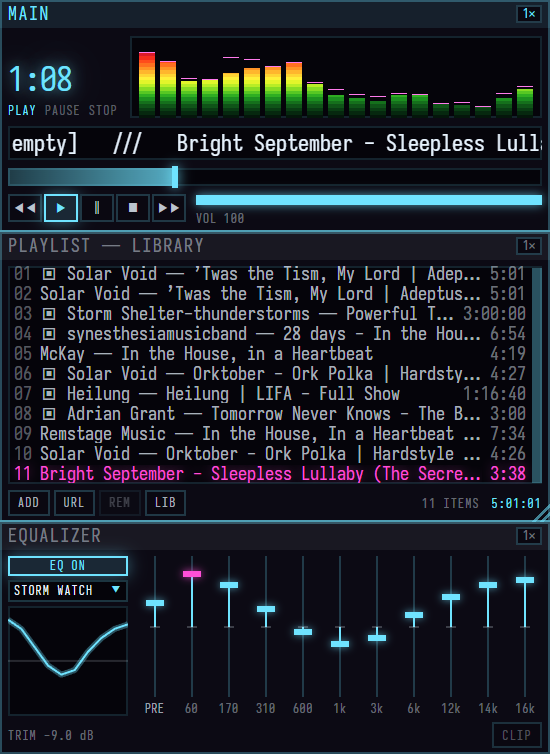
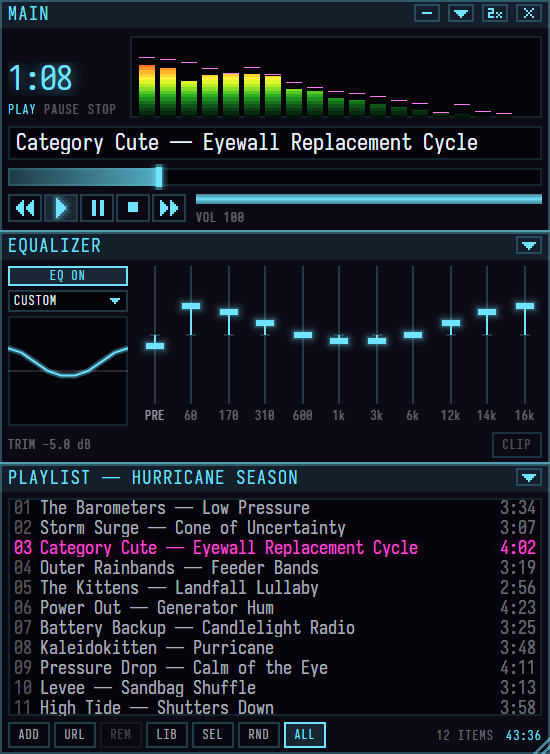
site: v0.5 on the download page, with Purricane and skins (docs)
The page still described v0.4: skins "at v0.5", one video at a time.
It now has a SKINS section (import a .wsz, make one from a picture, paint
your own) and a PURRICANE section with the three windows in the theme
and three kaleidoscope badges: six segments, eight, and calm. The EQ and
playlist blurbs, the first step, the FAQ and the dark-only line catch up.
The Eyewall windows and windowshade shots are retaken on the current
chrome, with the same invented playlist the Purricane shot plays.

control-api.md and windows.md stop placing palette_changed and REGION.TXT
at v0.5, which shipped without both.

diff --git a/site/index.html b/site/index.html
@@ -114,6 +114,14 @@
   .shade p { color: color-mix(in srgb, var(--text) 85%, transparent); margin-top: 6px; }
   .shade img.capy { width: 100%; max-width: 300px; justify-self: center; }
 
+  .purr { display: grid; grid-template-columns: minmax(0, auto) minmax(240px, 1fr); gap: 40px; align-items: start; }
+  .purr .shots { overflow-x: auto; max-width: 100%; }
+  .purr .shots img { width: 550px; max-width: none; image-rendering: pixelated; filter: drop-shadow(0 0 30px color-mix(in srgb, var(--alert) 22%, transparent)); }
+  .purr .blurb .label { color: var(--alert); }
+  .trio { display: flex; flex-direction: column; gap: 10px; }
+  .trio img { width: 100%; max-width: 740px; }
+  .trio .caps { display: grid; grid-template-columns: repeat(3, 1fr); max-width: 740px; font: 400 11px/1.5 var(--mono); letter-spacing: 1.6px; color: var(--dim); text-align: center; }
+
   .tinker { display: grid; grid-template-columns: minmax(0, 1fr) minmax(260px, 0.9fr); gap: 32px; align-items: center; padding-top: 24px; }
   .tinker img { width: 100%; max-width: 520px; justify-self: center; }
 
@@ -133,7 +141,7 @@
   footer img { width: 220px; }
 
   @media (max-width: 760px) {
-    header.hero, .two, .windows, .shade, .tinker, .faq, footer.wrap { grid-template-columns: 1fr; }
+    header.hero, .two, .windows, .purr, .shade, .tinker, .faq, footer.wrap { grid-template-columns: 1fr; }
     .hero img, .tinker img, footer img { justify-self: start; }
     .wrap { padding: 40px 20px; }
     nav { padding: 18px 20px; }
@@ -150,6 +158,7 @@
   <div class="links">
     <a href="#first-minute">FIRST MINUTE</a>
     <a href="#windows">THE WINDOWS</a>
+    <a href="#purricane">PURRICANE</a>
     <a href="#faq">FAQ</a>
     <a href="https://github.com/paperhurts/hurricane-party">GITHUB</a>
   </div>
@@ -178,7 +187,7 @@
   <div class="steps">
     <div class="step">
       <div class="shot"><img src="shots/step1.png" alt="The library window with a URL pasted and a download finishing in the queue"></div>
-      <div class="num"><span>1</span><p><strong>Paste a URL.</strong> One video at a time for now. It queues, downloads into your library folder, and survives a restart.</p></div>
+      <div class="num"><span>1</span><p><strong>Paste a URL.</strong> A video, or a whole YouTube playlist: you pick what to keep before anything downloads. It queues, downloads into your library folder, and survives a restart.</p></div>
     </div>
     <div class="step">
       <div class="shot"><img src="shots/step2.png" alt="The library window listing tracks and videos"></div>
@@ -221,7 +230,7 @@
       <div class="lines">
         <div>A downloader and a player in one small app.</div>
         <div>Your files, in a folder you chose, as ordinary MP3 and MP4.</div>
-        <div>Built to be used in the dark with the power out. The screen is the only light in the room, so the app is dark only.</div>
+        <div>Built to be used in the dark with the power out. The screen is the only light in the room, so there is no light mode. Even the bright theme glows.</div>
       </div>
     </div>
     <div class="card strike">
@@ -242,11 +251,11 @@
     <h2>Three small windows that snap together. Drag one, they all come.</h2>
   </div>
   <div class="windows">
-    <div class="shots"><img src="shots/windows.png" alt="Main, EQ and Playlist bonded in a stack, the analyser lit, at 2x"></div>
+    <div class="shots"><img src="shots/windows.png" alt="Main, EQ and Playlist bonded in a stack in the Eyewall skin, a track playing and the analyser lit, at 2x"></div>
     <div class="blurbs">
       <div class="blurb"><div class="label">MAIN</div><p>Transport, time, seek, volume. The analyser runs on a weather radar ramp: green through yellow to red, peaking magenta. Click it for an oscilloscope.</p></div>
-      <div class="blurb"><div class="label">EQUALIZER</div><p>Ten bands, a preamp, presets, and a trim that keeps a boosted mix from clipping. A lamp lights when it does.</p></div>
-      <div class="blurb"><div class="label">PLAYLIST</div><p>Resizes by the corner grip. The lit seam between windows is a bond: drag it to resize both neighbours, double-click to break it.</p></div>
+      <div class="blurb"><div class="label">EQUALIZER</div><p>Ten bands, a preamp, and a trim that keeps a boosted mix from clipping. A lamp lights when it does. Save the curve as your own preset, or import presets from Winamp <code>.eqf</code> files.</p></div>
+      <div class="blurb"><div class="label">PLAYLIST</div><p>Resizes by the corner grip. Shuffle and repeat live in its bar. The lit seam between windows is a bond: drag it to resize both neighbours, double-click to break it.</p></div>
     </div>
   </div>
   <div class="shade">
@@ -256,6 +265,46 @@
       <p>Double-click Main's title bar and it collapses to a fourteen-pixel bar that stays on top. Title, transport, time. This is the one you live in while working in another app.</p>
     </div>
     <img class="capy" src="img/capybara-desk.png" alt="The capybara at a desk in headphones, the windowshade bar floating above his terminal">
+  </div>
+</section>
+
+<section id="skins" class="wrap rule" style="display:flex;flex-direction:column;gap:32px">
+  <div style="display:flex;flex-direction:column;gap:8px">
+    <div class="eyebrow">SKINS</div>
+    <h2>Wear an old Winamp skin, or make one of your own.</h2>
+  </div>
+  <div class="cards">
+    <div class="card arc">
+      <div class="label arc">IMPORT SKIN…</div>
+      <div class="lines"><div>Classic <code>.wsz</code> skins load and dress all three windows. Most work. If a skin uses something this player doesn't have, it says so instead of drawing it wrong.</div></div>
+    </div>
+    <div class="card arc">
+      <div class="label arc">MAKE A SKIN…</div>
+      <div class="lines"><div>Pick any picture. The windows take its colours, kept readable, and wear the picture behind the buttons. You choose which part of it shows.</div></div>
+    </div>
+    <div class="card arc">
+      <div class="label arc">PAINT YOUR OWN…</div>
+      <div class="lines"><div>A folder opens with a numbered template. Paint over it in any image editor, then bring the folder or a zip of it back in.</div></div>
+    </div>
+  </div>
+</section>
+
+<section id="purricane" class="wrap rule" style="display:flex;flex-direction:column;gap:40px">
+  <div style="display:flex;flex-direction:column;gap:8px">
+    <div class="eyebrow strike">PURRICANE</div>
+    <h2>A second theme, and a kaleidoscope that blooms on the beat.</h2>
+  </div>
+  <div class="purr">
+    <div class="shots"><img src="shots/purricane.png" alt="Main, EQ and Playlist in Purricane: rounded pastel pink windows, mint and periwinkle pills, and a round kaleidoscope badge on Main, a track playing, at 2x"></div>
+    <div class="blurbs">
+      <div class="blurb"><div class="label">THE THEME</div><p>Pick Purricane beside the skin in the library and every window turns over at once. It comes with a skin of its own: soft rounded chrome in floss pink, milk white, mint, periwinkle and butter, with words in Comic Sans.</p></div>
+      <div class="blurb"><div class="label">THE KALEIDOSCOPE</div><p>A mandala sits in the round badge on Main. Bass pushes it out, the highs scatter dots at the rim, a beat makes it bloom, and its colour drifts once around the palette every minute and a half. 6 SEG and 8 SEG cut it into six or eight.</p></div>
+      <div class="blurb"><div class="label">CALM</div><p>It turns slowly and never flashes more than a few times a second, whatever the tempo. CALM holds it still and lets it answer the music in size only. Windows' reduced-motion setting does the same.</p></div>
+    </div>
+  </div>
+  <div class="trio">
+    <img src="shots/kaleidoscope.png" alt="Three kaleidoscope badges playing the same track: six segments, eight segments, and calm, smaller and in one colour">
+    <div class="caps"><span>6 SEG</span><span>8 SEG</span><span>CALM</span></div>
   </div>
 </section>
 
@@ -278,7 +327,8 @@
     <div><dt>Where did my files go?</dt><dd>Into the library folder, whose path is shown at the bottom of the library window. They are plain MP3 and MP4 files; any other player can open them.</dd></div>
     <div><dt>Does it need the internet?</dt><dd>Only to download. Playback never touches the network, by design and by enforcement. Unplug and it keeps going.</dd></div>
     <div><dt>Why is it Windows only?</dt><dd>It was built for one Windows machine in hurricane country. Nothing in it is Windows-specific on purpose, but nothing has been tested anywhere else either.</dd></div>
-    <div><dt>Can I use my old Winamp skins?</dt><dd>Not yet. Classic .wsz skins import at v0.5.</dd></div>
+    <div><dt>Can I use my old Winamp skins?</dt><dd>Yes. Import skin… in the library reads a classic .wsz. Most skins work, and one that uses something this player doesn't have tells you what it left out.</dd></div>
+    <div><dt>Is there a light mode?</dt><dd>No, and there won't be. There is a bright theme, Purricane, pastel pink with a kaleidoscope, and Eyewall, the dark one it ships in.</dd></div>
     <div><dt>Is my library shared anywhere?</dt><dd>No. There is no account and no server. The list of what you have lives in a database file on your disk.</dd></div>
     <div><dt>The download is broken. Who do I tell?</dt><dd><a href="https://github.com/paperhurts/hurricane-party/issues/new">Open an issue on GitHub.</a> If the link on this page is dead, the <a href="https://github.com/paperhurts/hurricane-party/releases">release list</a> is the fallback.</dd></div>
   </dl>

diff --git a/docs/control-api.md b/docs/control-api.md
@@ -69,7 +69,7 @@ Full set: `play` `pause` `toggle` `next` `prev` `stop` `seek` `volume` `status` 
 {"event":"palette_changed", "viscolor":["#000000","#0f0f0f", "…24 entries…"]}
 ```
 
-**Built:** `now_playing_changed` and `state_changed`. `palette_changed` is placed at v0.5 below and is not built yet, although skins can now change at runtime (the `.wsz` importer and the skin maker both shipped); `layout_changed` is v1.0.
+**Built:** `now_playing_changed` and `state_changed`. `palette_changed` was placed at v0.5 below, and v0.5 shipped without it, although skins and themes now change at runtime (the `.wsz` importer, the skin maker and Purricane all shipped). It has no milestone until someone picks it up; `layout_changed` is v1.0.
 
 `palette_changed` is the one worth calling out. When you switch skins, the LED wall changes color scheme to match. That's a genuinely nice thing that costs almost nothing to ship, and it's the kind of detail that makes people want to build against your API. The payload is the same 24-entry `viscolor` array the skin manifest defines (`skin-manifest.md`) — one definition, three consumers: analyser, Cone backdrop, and this event.
 
@@ -202,7 +202,7 @@ Ship the example client. Someone with an LED strip and a Raspberry Pi should be 
 |---|---|
 | v0.3 | Control channel only: handshake, transport, events. Proves the pipe, no public commitment yet |
 | v0.4 | Viz channel — lands with the analyser, since it's the same data |
-| v0.5 | `palette_changed` — lands with the skin loader, since that's when palettes become dynamic. *The loader shipped; the event has not* |
+| v0.5 | `palette_changed` — lands with the skin loader, since that's when palettes become dynamic. *v0.5 shipped the loader without the event, which has no milestone now* |
 | v1.0 | `layout_changed`. Freeze protocol v1. Publish docs + example client |
 
 This table is the control API's internal phasing and is consistent with the canonical milestone table in `decisions.md` (D27). If they ever disagree, `decisions.md` wins.

diff --git a/docs/windows.md b/docs/windows.md
@@ -227,7 +227,7 @@ Multi-window pushes work earlier, because the skin renderer sits on top of it an
 The two points specific to this document that survive:
 
 - **v0.4 is the big one**, and is worth splitting into v0.4a (window system) and v0.4b (skin renderer). They are separable and the second is much easier once the first is proven
-- **`REGION.TXT` is explicitly best-effort at v0.5.** Non-rectangular windows are not a v1.0 commitment
+- **`REGION.TXT` is explicitly best-effort.** v0.5 shipped without it (a manifest's `regions` is reserved and not read), and non-rectangular windows are not a v1.0 commitment
 
 ---
 
